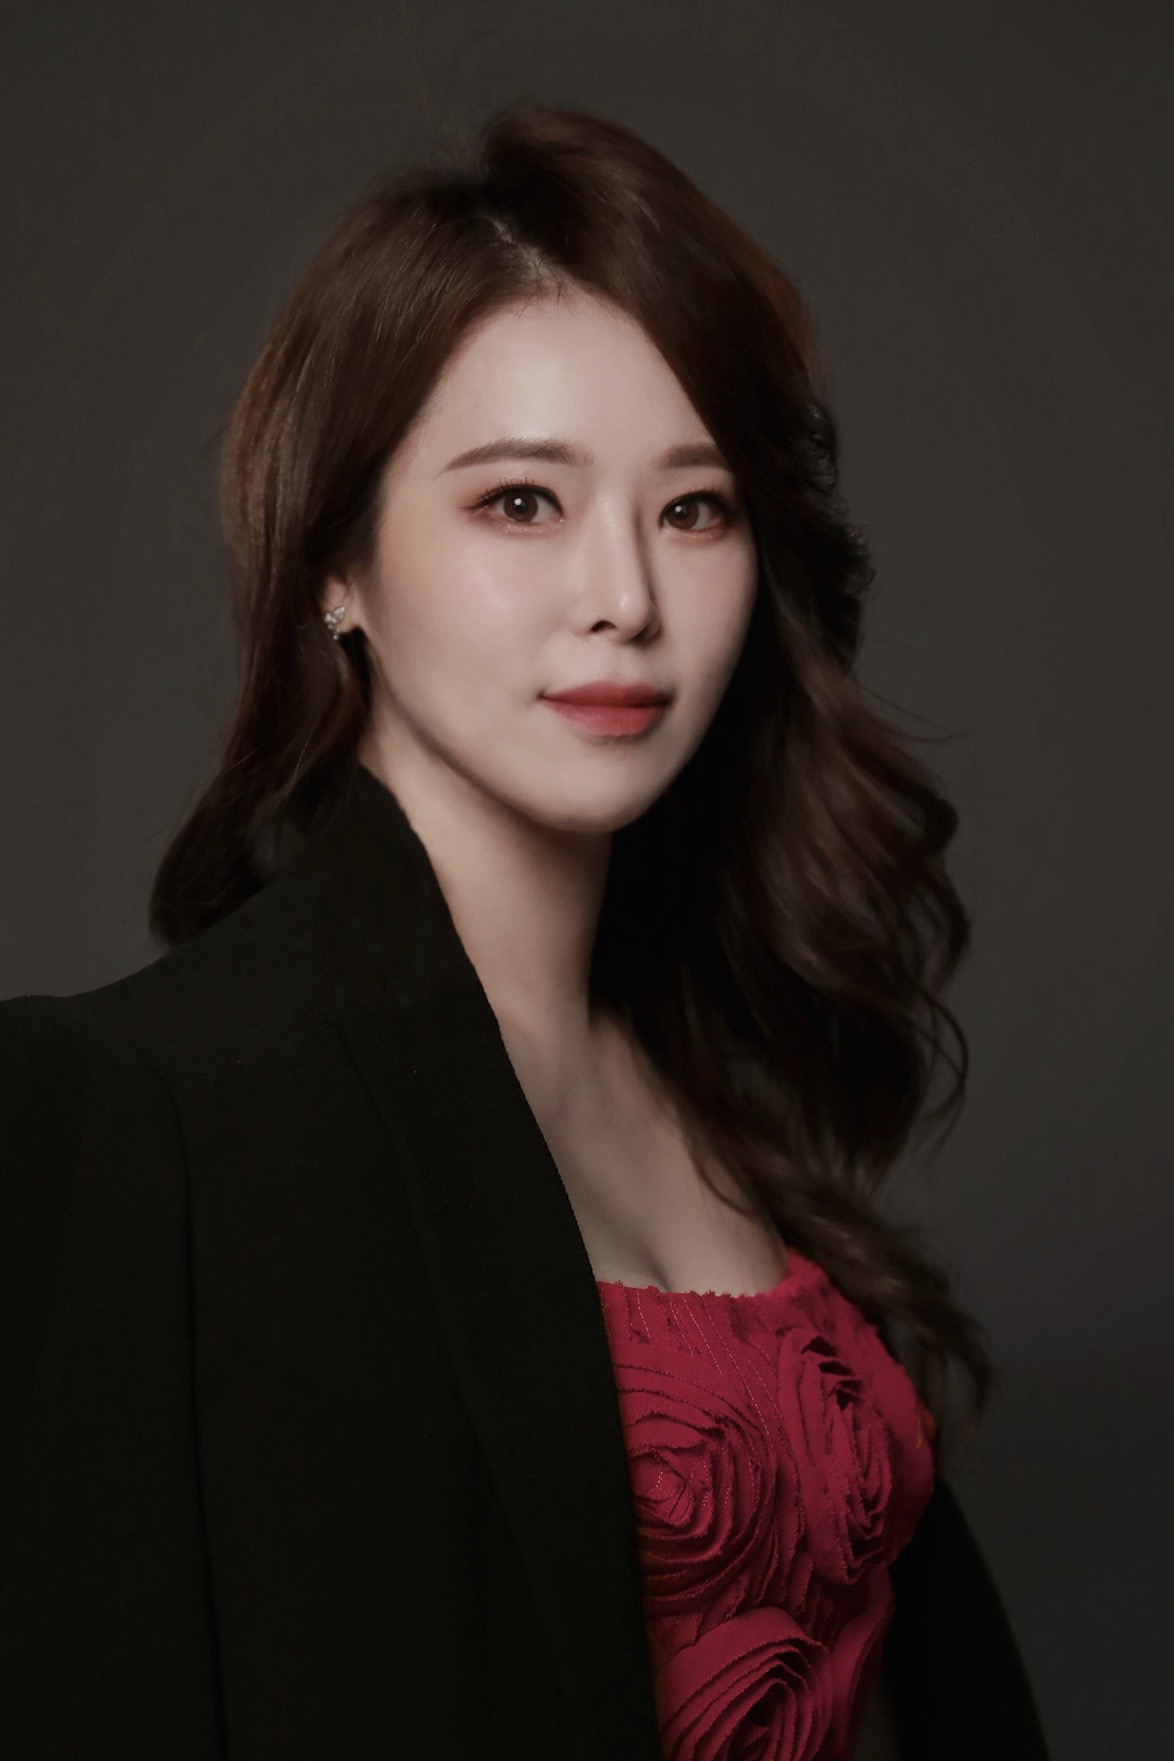
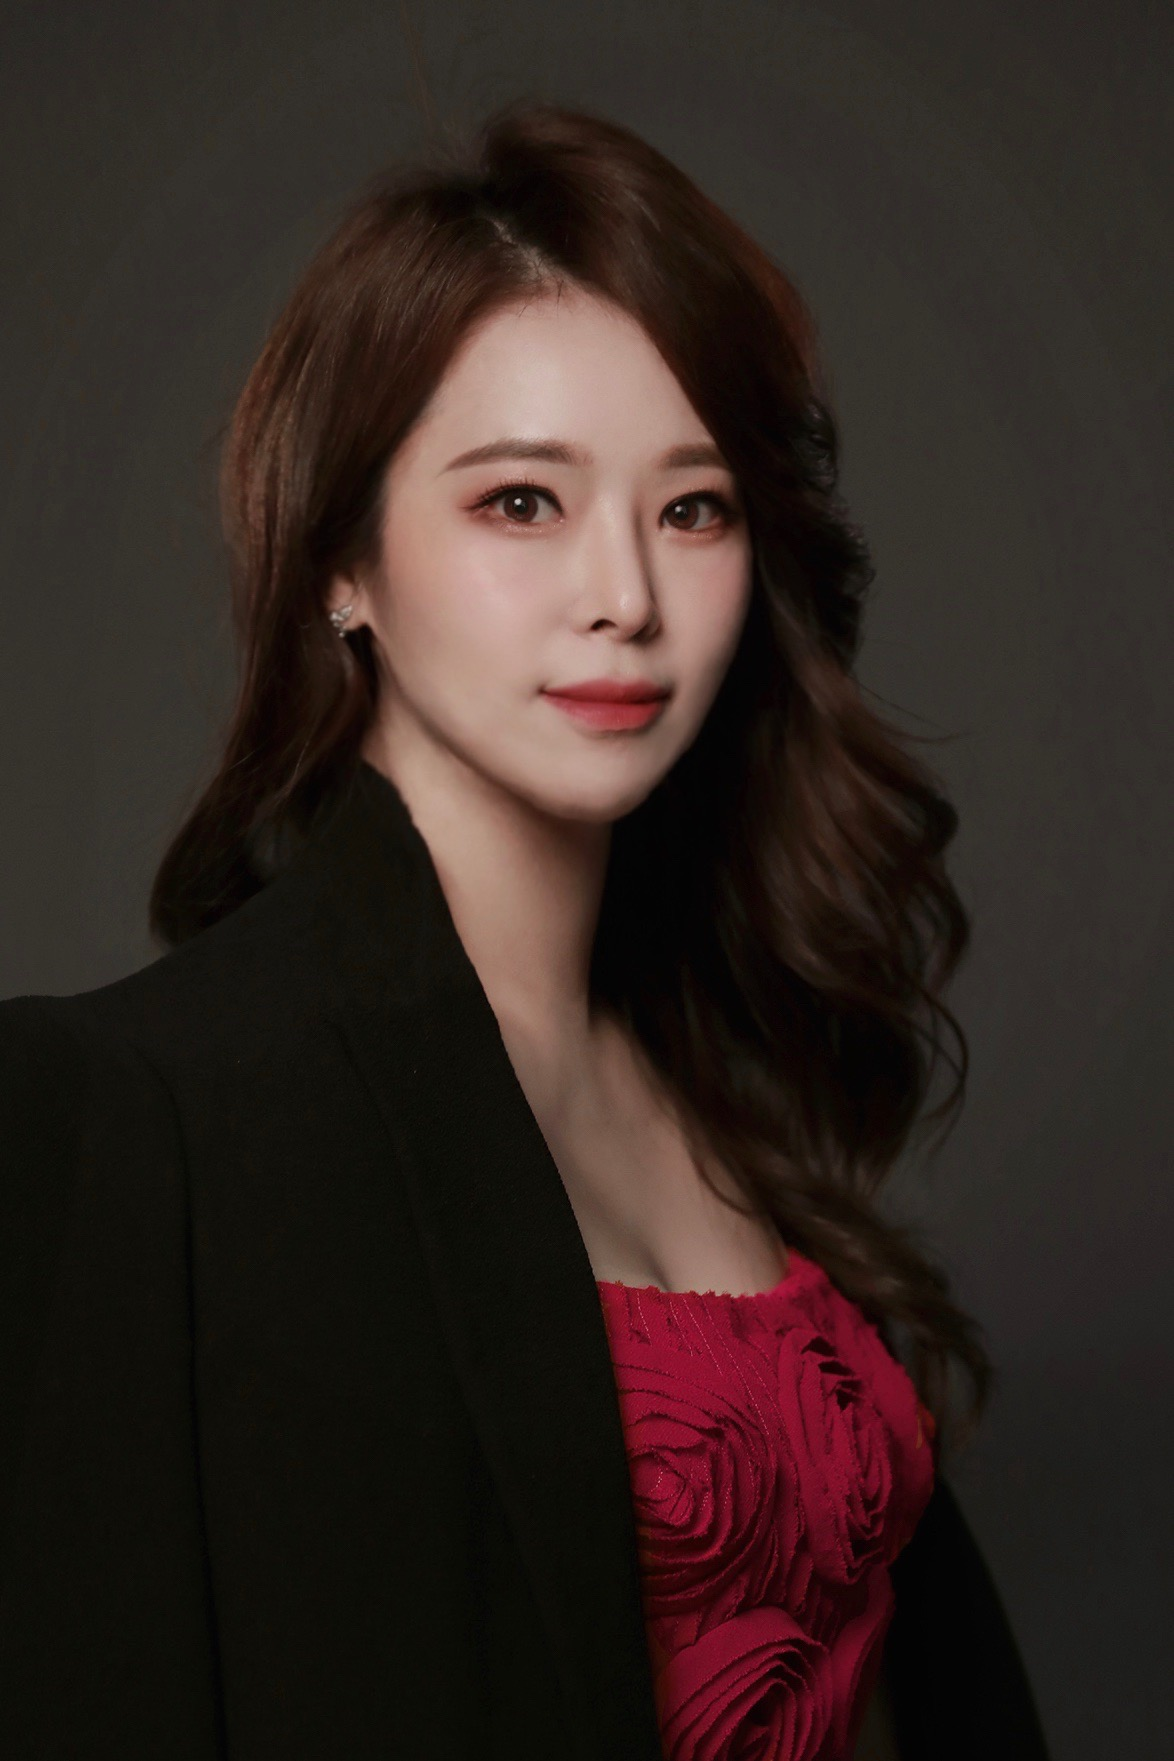
이미지 수정

Changed region(s): [[0.276, 0.2811, 0.644, 0.4997]]

diff --git a/sample/index.html b/sample/index.html
@@ -83,7 +83,7 @@
               </div>
             </div>
             <div class="col-xs-5 col-sm-6">
-              <img src="image/home/3.png">
+              <img src="image/home/main.jpg">
             </div>
           </div>
           <div>
@@ -557,12 +557,6 @@
                       <img src="image/media/announcer/7.jpg" class="img-zoomable">
                     </div>
                     <div class="grid-item">
-                      <img src="image/media/announcer/8.jpg" class="img-zoomable">
-                    </div>
-                    <div class="grid-item">
-                      <img src="image/media/announcer/9.jpg" class="img-zoomable">
-                    </div>
-                    <div class="grid-item">
                       <img src="image/media/announcer/10.jpg" class="img-zoomable">
                     </div>
                     <div class="grid-item">
@@ -579,9 +573,6 @@
                     </div>
                     <div class="grid-item">
                       <img src="image/media/announcer/15.jpg" class="img-zoomable">
-                    </div>
-                    <div class="grid-item">
-                      <img src="image/media/announcer/16.jpg" class="img-zoomable">
                     </div>
                     <div class="grid-item">
                       <img src="image/media/announcer/17.jpg" class="img-zoomable">
